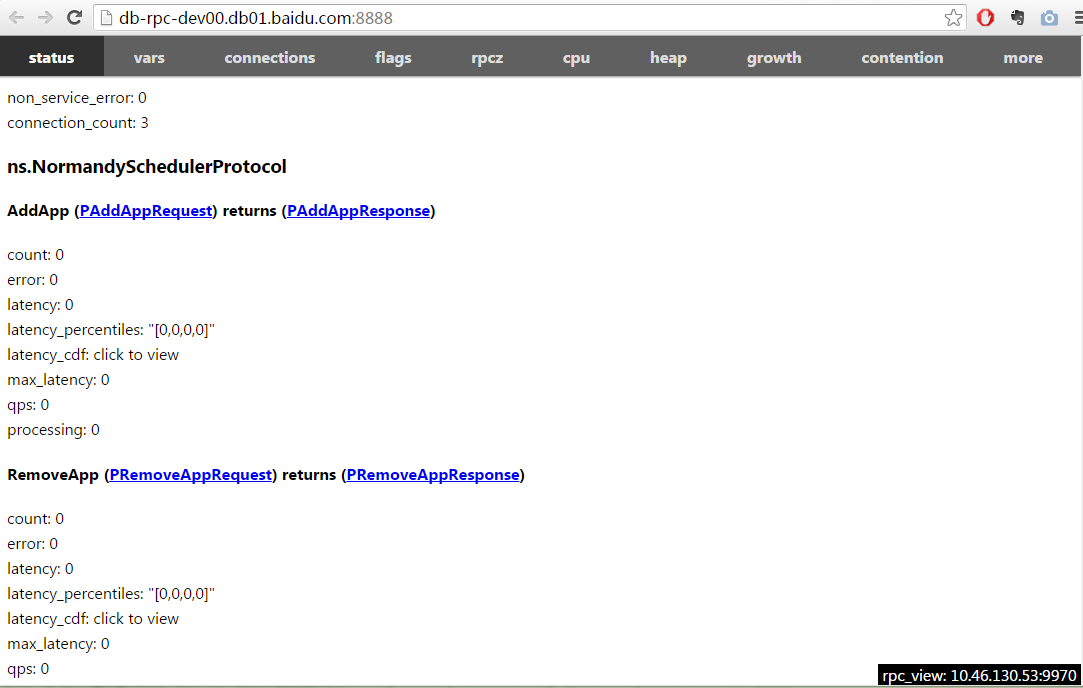
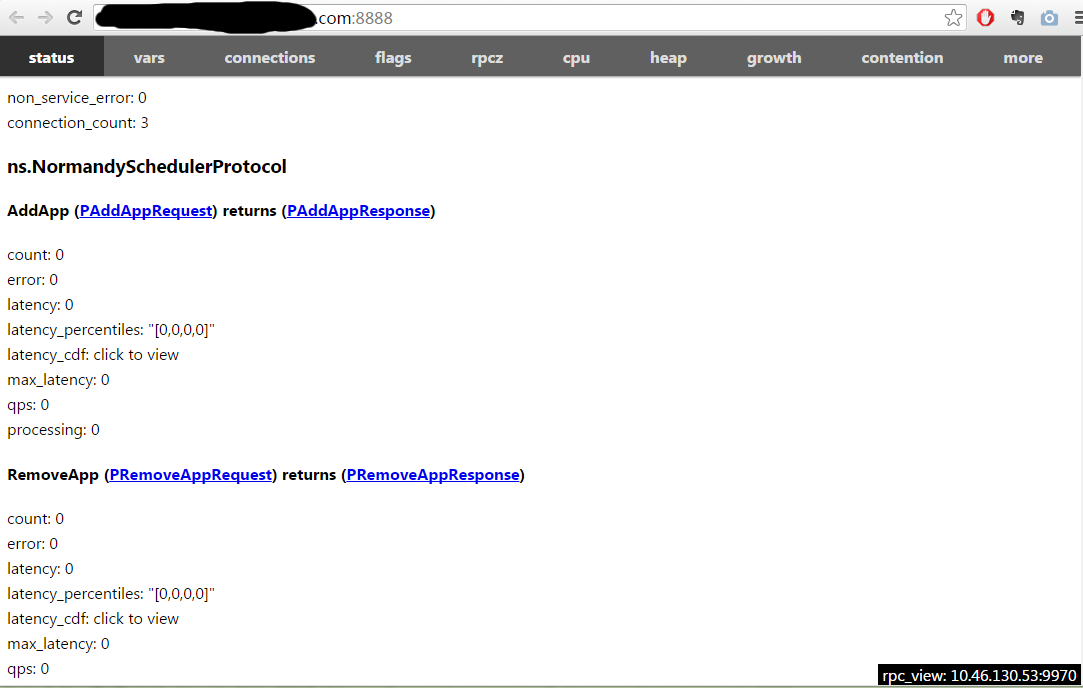
update docs

Changed region(s): [[0.0914, 0.0, 0.3047, 0.061]]

diff --git a/docs/cn/rpc_view.md b/docs/cn/rpc_view.md
@@ -15,7 +15,7 @@ rpc_view可以转发端口被限的server的内置服务。像百度内如果一
 ```
 $ ./rpc_view 10.46.130.53:9970
 TRACE: 02-14 12:12:20:   * 0 src/brpc/server.cpp:762] Server[rpc_view_server] is serving on port=8888.
-TRACE: 02-14 12:12:20:   * 0 src/brpc/server.cpp:771] Check out http://db-rpc-dev00.db01.baidu.com:8888 in web browser.
+TRACE: 02-14 12:12:20:   * 0 src/brpc/server.cpp:771] Check out http://XXX.com:8888 in web browser.
 ```
 
 打开rpc_view在8888端口提供的页面（在secureCRT中按住ctrl点url）：
